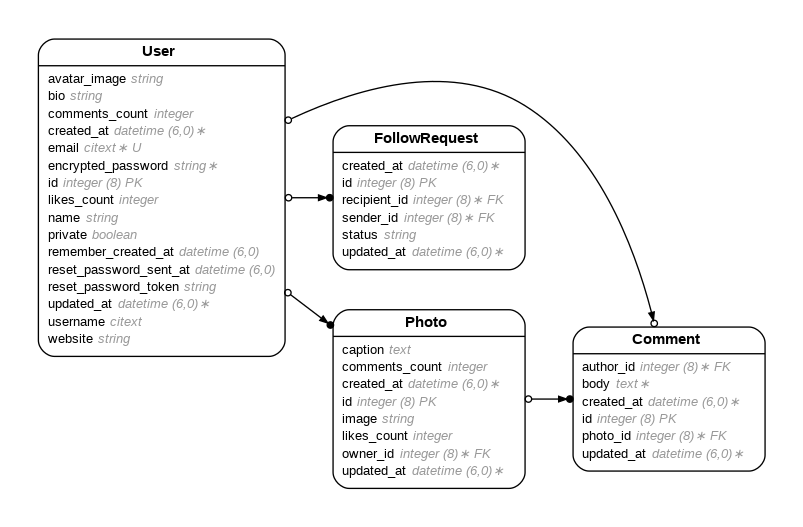
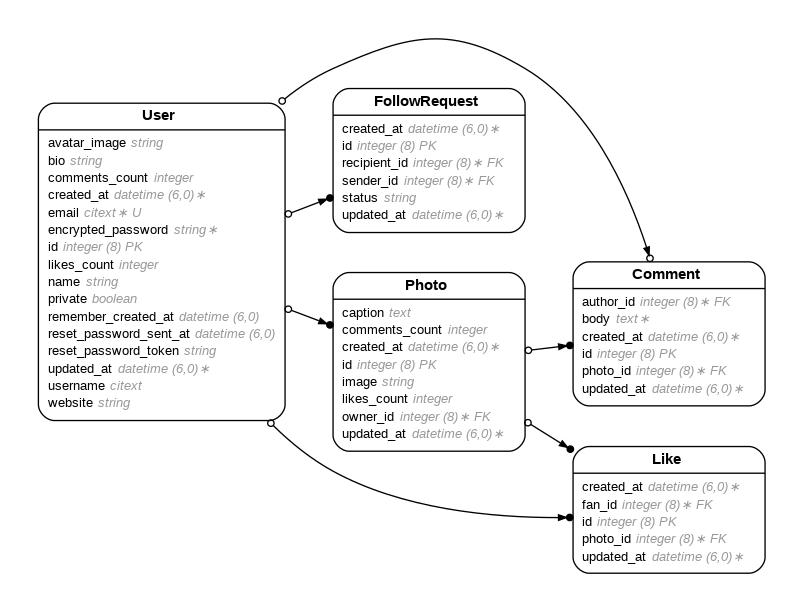
generated likes

diff --git a/app/controllers/likes_controller.rb b/app/controllers/likes_controller.rb
@@ -1,0 +1,70 @@
+class LikesController < ApplicationController
+  before_action :set_like, only: %i[ show edit update destroy ]
+
+  # GET /likes or /likes.json
+  def index
+    @likes = Like.all
+  end
+
+  # GET /likes/1 or /likes/1.json
+  def show
+  end
+
+  # GET /likes/new
+  def new
+    @like = Like.new
+  end
+
+  # GET /likes/1/edit
+  def edit
+  end
+
+  # POST /likes or /likes.json
+  def create
+    @like = Like.new(like_params)
+
+    respond_to do |format|
+      if @like.save
+        format.html { redirect_to @like, notice: "Like was successfully created." }
+        format.json { render :show, status: :created, location: @like }
+      else
+        format.html { render :new, status: :unprocessable_entity }
+        format.json { render json: @like.errors, status: :unprocessable_entity }
+      end
+    end
+  end
+
+  # PATCH/PUT /likes/1 or /likes/1.json
+  def update
+    respond_to do |format|
+      if @like.update(like_params)
+        format.html { redirect_to @like, notice: "Like was successfully updated." }
+        format.json { render :show, status: :ok, location: @like }
+      else
+        format.html { render :edit, status: :unprocessable_entity }
+        format.json { render json: @like.errors, status: :unprocessable_entity }
+      end
+    end
+  end
+
+  # DELETE /likes/1 or /likes/1.json
+  def destroy
+    @like.destroy!
+
+    respond_to do |format|
+      format.html { redirect_to likes_path, status: :see_other, notice: "Like was successfully destroyed." }
+      format.json { head :no_content }
+    end
+  end
+
+  private
+    # Use callbacks to share common setup or constraints between actions.
+    def set_like
+      @like = Like.find(params.expect(:id))
+    end
+
+    # Only allow a list of trusted parameters through.
+    def like_params
+      params.expect(like: [ :fan_id, :photo_id ])
+    end
+end

diff --git a/db/schema.rb b/db/schema.rb
@@ -10,7 +10,7 @@
 #
 # It's strongly recommended that you check this file into your version control system.
 
-ActiveRecord::Schema[8.0].define(version: 2025_05_22_184347) do
+ActiveRecord::Schema[8.0].define(version: 2025_05_22_184823) do
   # These are extensions that must be enabled in order to support this database
   enable_extension "citext"
   enable_extension "pg_catalog.plpgsql"
@@ -32,6 +32,15 @@ ActiveRecord::Schema[8.0].define(version: 2025_05_22_184347) do
     t.datetime "updated_at", null: false
     t.index ["recipient_id"], name: "index_follow_requests_on_recipient_id"
     t.index ["sender_id"], name: "index_follow_requests_on_sender_id"
+  end
+
+  create_table "likes", force: :cascade do |t|
+    t.bigint "fan_id", null: false
+    t.bigint "photo_id", null: false
+    t.datetime "created_at", null: false
+    t.datetime "updated_at", null: false
+    t.index ["fan_id"], name: "index_likes_on_fan_id"
+    t.index ["photo_id"], name: "index_likes_on_photo_id"
   end
 
   create_table "photos", force: :cascade do |t|
@@ -212,6 +221,8 @@ ActiveRecord::Schema[8.0].define(version: 2025_05_22_184347) do
   add_foreign_key "comments", "users", column: "author_id"
   add_foreign_key "follow_requests", "users", column: "recipient_id"
   add_foreign_key "follow_requests", "users", column: "sender_id"
+  add_foreign_key "likes", "photos"
+  add_foreign_key "likes", "users", column: "fan_id"
   add_foreign_key "photos", "users", column: "owner_id"
   add_foreign_key "solid_queue_blocked_executions", "solid_queue_jobs", column: "job_id", on_delete: :cascade
   add_foreign_key "solid_queue_claimed_executions", "solid_queue_jobs", column: "job_id", on_delete: :cascade

diff --git a/app/models/like.rb b/app/models/like.rb
@@ -1,0 +1,24 @@
+# == Schema Information
+#
+# Table name: likes
+#
+#  id         :bigint           not null, primary key
+#  created_at :datetime         not null
+#  updated_at :datetime         not null
+#  fan_id     :bigint           not null
+#  photo_id   :bigint           not null
+#
+# Indexes
+#
+#  index_likes_on_fan_id    (fan_id)
+#  index_likes_on_photo_id  (photo_id)
+#
+# Foreign Keys
+#
+#  fk_rails_...  (fan_id => users.id)
+#  fk_rails_...  (photo_id => photos.id)
+#
+class Like < ApplicationRecord
+  belongs_to :fan, class_name: "User"
+  belongs_to :photo
+end

diff --git a/db/migrate/20250522184823_create_likes.rb b/db/migrate/20250522184823_create_likes.rb
@@ -1,0 +1,10 @@
+class CreateLikes < ActiveRecord::Migration[8.0]
+  def change
+    create_table :likes do |t|
+      t.references :fan, null: false, foreign_key: { to_table: :users }
+      t.references :photo, null: false, foreign_key: true
+
+      t.timestamps
+    end
+  end
+end

diff --git a/config/routes.rb b/config/routes.rb
@@ -1,4 +1,5 @@
 Rails.application.routes.draw do
+  resources :likes
   resources :follow_requests
   resources :comments
   resources :photos
